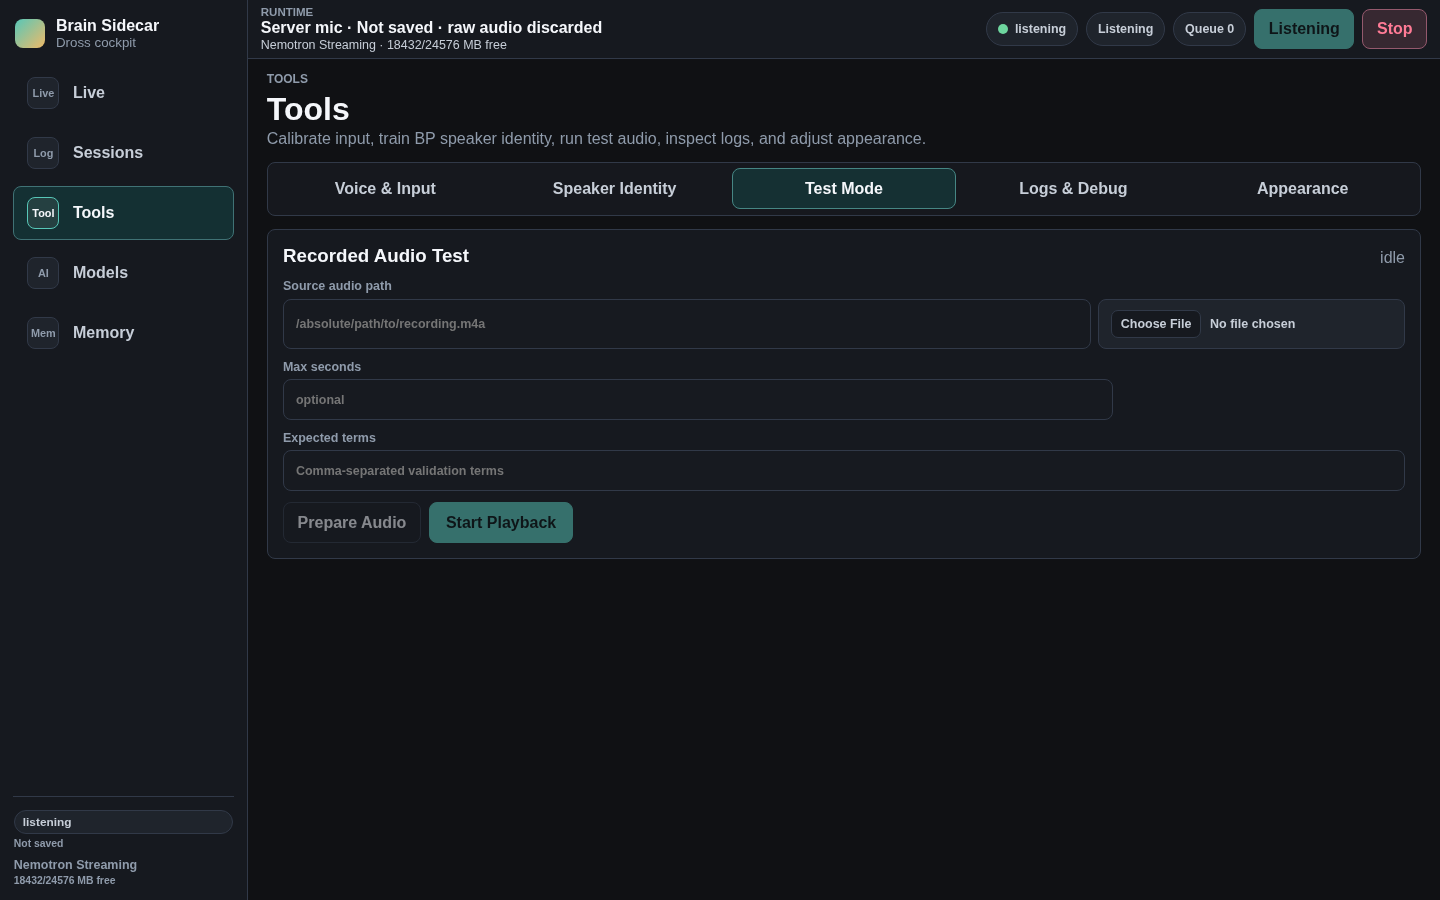
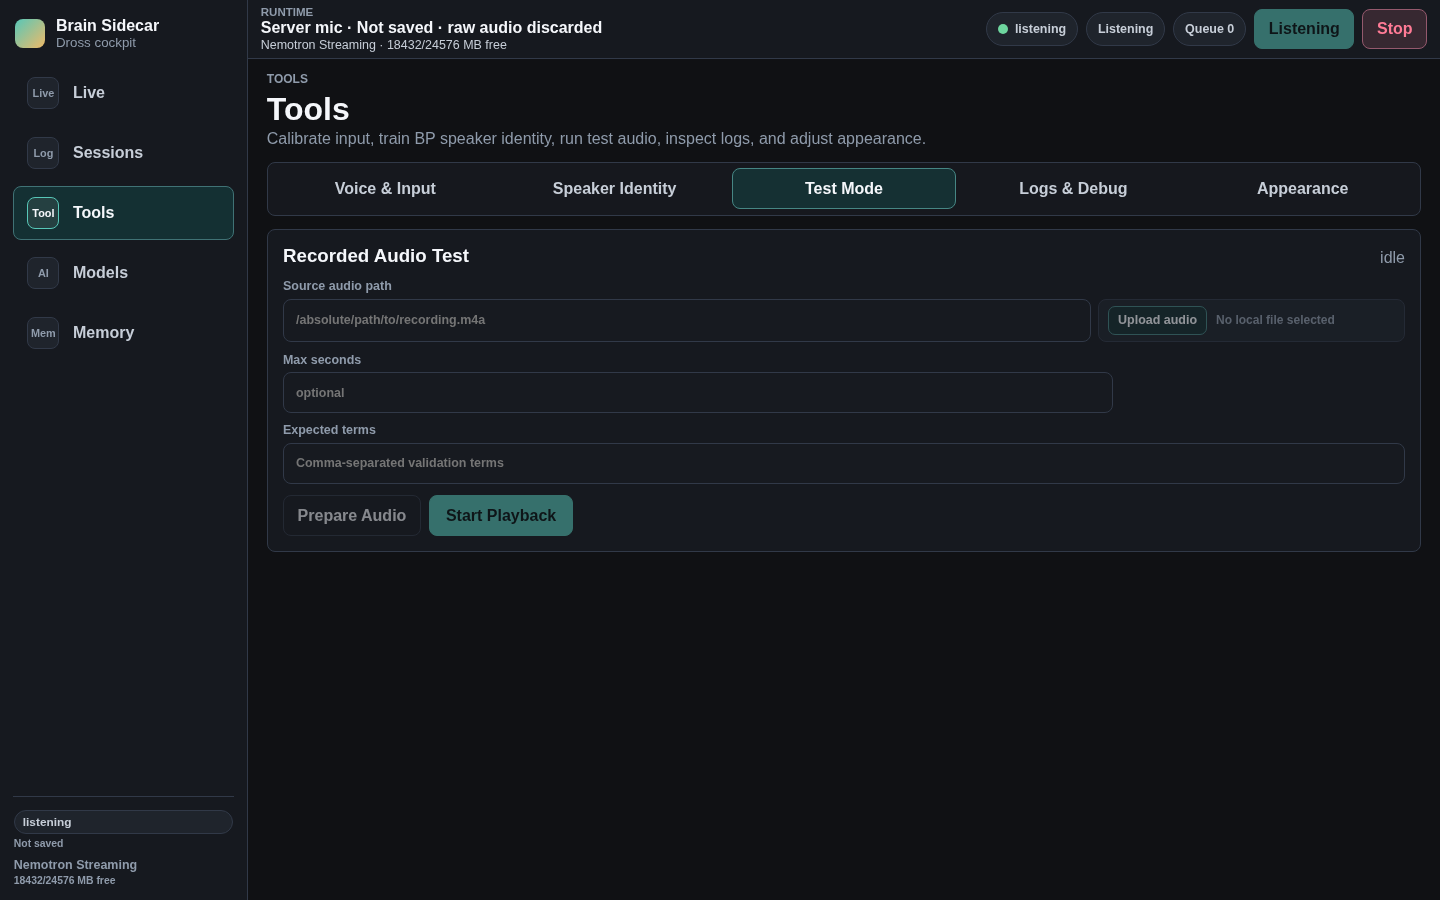
Audit meeting cockpit utility polish

Changed region(s): [[0.1875, 0.3422, 0.4062, 0.6222], [0.7812, 0.3422, 0.9062, 0.3733], [0.1875, 0.56, 0.2812, 0.5911]]

diff --git a/ui/e2e/app.spec.ts b/ui/e2e/app.spec.ts
@@ -14,12 +14,14 @@ test("loads mocked device and GPU state", async ({ page }) => {
   await expect(page.getByLabel("Meeting Focus summary")).toContainText("Focus");
   await expect(page.getByLabel("Meeting Focus goal")).toHaveCount(0);
   await expect(page.getByLabel("Live field empty state")).toContainText("Ready. Start listening or ask Sidecar.");
+  await expect(page.getByRole("banner").getByRole("button", { name: "Stop" })).toHaveCount(0);
   const liveBox = await page.locator("#transcript").boundingBox();
   expect(liveBox).not.toBeNull();
   expect(liveBox!.y).toBeLessThan(360);
   await expect(page.getByRole("search")).toBeVisible();
   const genericToolNoun = new RegExp("Utilit" + "(y|ies)");
   await expect(page.locator("body")).not.toContainText(genericToolNoun);
+  await expect(page.locator("body")).not.toContainText(/Meeting utilities|Transcript Retention|Indexes|Browse index file/);
   const toolsButton = page.getByRole("button", { name: "Tools" });
   await toolsButton.click();
   await expect(page.getByRole("main", { name: "Tools" })).toBeVisible();
@@ -35,6 +37,7 @@ test("loads mocked device and GPU state", async ({ page }) => {
   await expect(debug.getByText("NVIDIA RTX 4090 · 6144/24576 MB")).toBeVisible();
   await expect(debug.getByLabel("VRAM usage 25%")).toBeVisible();
   await expect(debug.getByText("CUDA ready")).toBeVisible();
+  await expect(debug.locator("details.debug-diagnostics")).toHaveJSProperty("open", false);
   await expect(page.getByRole("main", { name: "Tools" })).not.toContainText("Transcript Retention");
   await expect(page.getByRole("main", { name: "Tools" })).not.toContainText("Indexes");
   await page.getByRole("button", { name: "Live" }).click();
@@ -103,6 +106,7 @@ test("shows a saved-session empty state with a Saved-mode CTA", async ({ page })
   const sessionsPage = page.getByRole("main", { name: "Sessions" });
   await expect(sessionsPage).toContainText("No saved sessions yet");
   await expect(sessionsPage).toContainText("Use Saved mode on Live");
+  await expect(sessionsPage.locator(".split-pane")).toHaveCount(0);
   await sessionsPage.getByRole("button", { name: "Start with Saved" }).click();
   await expect(page.getByRole("main", { name: "Live" })).toBeVisible();
   await expect(page.locator('select[aria-label="Session selector"]')).toHaveCount(0);
@@ -118,6 +122,7 @@ test("shows model residency and memory management pages", async ({ page }) => {
   await expect(modelsPage).toBeVisible();
   await expect(modelsPage.getByLabel("Dross readiness summary")).toContainText("Dross runtime ready");
   await expect(modelsPage.getByLabel("Dross readiness summary")).toContainText("Ready");
+  await expect(modelsPage.getByLabel("Dross readiness summary")).toContainText("Same-GPU default looks healthy");
   await expect(modelsPage.getByLabel("Dross readiness summary")).not.toContainText("3/3");
   await expect(modelsPage).toContainText("Nemotron Streaming");
   await expect(modelsPage).toContainText("160 ms");
@@ -136,13 +141,17 @@ test("shows model residency and memory management pages", async ({ page }) => {
     await expect(memoryCategories.getByRole("button", { name: new RegExp(label) })).toBeVisible();
   }
   await expect(memoryCategories.getByRole("button", { name: /Search Results/ })).toHaveCount(0);
+  await expect(memoryPage.getByLabel("Memory search behavior")).toContainText("Type filters the open category");
   await expect(memoryPage.getByLabel("Browse index file")).toHaveCount(0);
   await expect(memoryPage.getByRole("button", { name: "Add Root" })).toHaveCount(0);
   await memoryCategories.getByRole("button", { name: /Documents/ }).click();
   await expect(memoryPage.getByLabel("Memory items")).toContainText("OGMS spec.txt");
+  await expect(memoryPage.getByRole("button", { name: "Add Root" })).toHaveCount(0);
   await memoryPage.getByRole("button", { name: /OGMS spec.txt/ }).click();
   await expect(memoryPage.getByLabel("Memory detail")).toContainText("Monitoring signals are useful when they map to decisions.");
   await expect(memoryPage.getByLabel("Memory detail")).toContainText("/home/bp/Nextcloud2/_library/_shoalstone/past work/OPC/2021 OGM/OGMS spec.txt");
+  await memoryCategories.getByRole("button", { name: /Work Sources/ }).click();
+  await expect(memoryPage.locator("details.metadata-details")).toHaveJSProperty("open", false);
 
   const searchRequest = page.waitForRequest((request) => (
     request.method() === "POST" && request.url().endsWith("/api/work-memory/search")
@@ -656,8 +665,11 @@ test("shows speaker identity controls instead of legacy ASR voice training", asy
   await expect(speaker.getByLabel("Speaker training steps")).toContainText("1 Start");
   await expect(page.getByRole("region", { name: "Voice profile" })).toHaveCount(0);
   await expect(page.getByText("ASR guidance preview")).toHaveCount(0);
+  await expect(speaker.locator("details.speaker-maintenance")).toHaveJSProperty("open", false);
+  await expect(speaker.getByRole("button", { name: "Delete Learned Embeddings" })).toHaveCount(0);
   await speaker.getByText("Advanced speaker controls").click();
   await expect(speaker).toContainText("embeddings");
+  await expect(speaker.getByRole("button", { name: "Delete Learned Embeddings" })).toBeVisible();
   await speaker.getByText("Review learned speaker profile").click();
   await expect(speaker.getByRole("button", { name: "Merge speakers" })).toBeVisible();
   await expect(speaker.getByRole("button", { name: "Split speaker" })).toBeVisible();
@@ -987,6 +999,9 @@ test("prepares recorded audio and starts playback from the GUI", async ({ page }
 
   const testPanel = await openToolSection(page, "Test Mode", "Recorded audio test");
   await expect(testPanel).toBeVisible();
+  await expect(testPanel.locator(".file-action")).toContainText("Upload audio");
+  await expect(testPanel.locator("input.file-picker")).toHaveCount(0);
+  await expect(testPanel).not.toContainText("No file chosen");
 
   await testPanel.getByLabel("Browse source audio").setInputFiles({
     name: "current-role-recording.m4a",
@@ -1180,6 +1195,10 @@ test("keeps cockpit pages compact at desktop and laptop widths", async ({ page }
     await page.getByRole("button", { name: "Tools" }).click();
     await expect(page.getByRole("main", { name: "Tools" })).toBeVisible();
     await expect(page.getByLabel("Voice & Input")).toBeVisible();
+    await expect.poll(() => page.evaluate(() => document.documentElement.scrollWidth <= window.innerWidth)).toBe(true);
+
+    await page.getByRole("button", { name: "Models" }).click();
+    await expect(page.getByRole("main", { name: "Models" })).toBeVisible();
     await expect.poll(() => page.evaluate(() => document.documentElement.scrollWidth <= window.innerWidth)).toBe(true);
 
     await page.getByRole("button", { name: "Memory" }).click();

diff --git a/ui/src/App.tsx b/ui/src/App.tsx
@@ -2584,11 +2584,12 @@ export function App() {
                       onChange={(event) => setFixturePath(event.target.value)}
                       placeholder="/absolute/path/to/mono-16khz.wav"
                     />
-                    <input
-                      aria-label="Browse fixture WAV"
-                      className="file-picker"
-                      type="file"
+                    <FilePickAction
+                      label="Browse fixture WAV"
+                      actionLabel="Upload WAV"
                       accept=".wav,audio/wav,audio/x-wav"
+                      path={fixturePath}
+                      busy={fileUploadBusy === "fixture"}
                       disabled={Boolean(fileUploadBusy)}
                       onChange={(event) => handleInputFilePick(event, "fixture", setFixturePath)}
                     />
@@ -2615,11 +2616,12 @@ export function App() {
                       onChange={(event) => setTestSourcePath(event.target.value)}
                       placeholder="/absolute/path/to/recording.m4a"
                     />
-                    <input
-                      aria-label="Browse source audio"
-                      className="file-picker"
-                      type="file"
+                    <FilePickAction
+                      label="Browse source audio"
+                      actionLabel="Upload audio"
                       accept="audio/*,.wav,.mp3,.m4a,.mp4,.aac,.flac,.ogg,.webm"
+                      path={testSourcePath}
+                      busy={fileUploadBusy === "test-audio"}
                       disabled={Boolean(fileUploadBusy) || testBusy === "preparing" || captureActive || captureStarting}
                       onChange={(event) => handleInputFilePick(event, "test-audio", setTestSourcePath)}
                     />
@@ -3423,6 +3425,11 @@ function ModelsPage({
         : "Dross setup needed";
   const embeddingKeepalive = gpu.ollama_embed_keep_alive ?? "0";
   const embeddingKeepaliveLabel = embeddingKeepalive === "0" ? "not resident (0)" : embeddingKeepalive;
+  const residentChatModels = gpu.ollama_gpu_models ?? [];
+  const chatModel = gpu.ollama_chat_model ?? "phi3:mini";
+  const sameGpuInterpretation = runtimeReady
+    ? `Same-GPU default looks healthy: ${asrBackendLabel} handles hearing locally, ${chatModel} is ${residentChatModels.includes(chatModel) ? "resident" : "reachable"}, and embeddings ${embeddingKeepalive === "0" ? "load on demand" : "stay resident"}.`
+    : "Health checks show which part of Dross needs attention before a meeting.";
   return (
     <main className="page models-page" aria-label="Models">
       <header className="page-header">
@@ -3443,6 +3450,7 @@ function ModelsPage({
             <span><strong>Memory</strong>{memoryReady ? `${gpu.ollama_embed_model ?? "embeddinggemma"} · ${ollamaEmbedHostLabel}` : "embeddings offline"}</span>
             <span><strong>VRAM</strong>{gpuFreeLabel}</span>
           </div>
+          <p className="readiness-interpretation">{sameGpuInterpretation}</p>
         </div>
         <span className={`readiness-pill ${readinessTone}`}>{readinessPill}</span>
       </section>
@@ -3520,6 +3528,39 @@ function RuntimeRow({ label, value }: { label: string; value: string }) {
       {" "}
       <strong>{value}</strong>
     </span>
+  );
+}
+
+function FilePickAction({
+  label,
+  actionLabel,
+  accept,
+  path,
+  busy,
+  disabled,
+  onChange,
+}: {
+  label: string;
+  actionLabel: string;
+  accept: string;
+  path: string;
+  busy: boolean;
+  disabled: boolean;
+  onChange: (event: ChangeEvent<HTMLInputElement>) => void;
+}) {
+  return (
+    <label className={`file-action ${disabled ? "disabled" : ""} ${busy ? "busy" : ""}`}>
+      <input
+        aria-label={label}
+        className="file-picker-native"
+        type="file"
+        accept={accept}
+        disabled={disabled}
+        onChange={onChange}
+      />
+      <span>{busy ? "Uploading..." : actionLabel}</span>
+      <small title={path || "No local file selected"}>{path ? PathLabel(path) : "No local file selected"}</small>
+    </label>
   );
 }
 
@@ -3718,6 +3759,9 @@ function MemoryPage({
                 placeholder="project, document, phrase"
               />
             </label>
+            <p className="memory-search-note" aria-label="Memory search behavior">
+              Type filters the open category. Search runs source-grounded work-memory lookup.
+            </p>
             <div className="memory-search-actions">
               <button className="secondary" type="submit" disabled={!memoryQuery.trim() || memoryBusy === "searching"}>
                 {memoryBusy === "searching" ? "Searching..." : "Search"}

diff --git a/ui/src/styles.css b/ui/src/styles.css
@@ -623,6 +623,13 @@ blockquote {
   text-transform: uppercase;
 }
 
+.readiness-interpretation {
+  color: var(--text-muted);
+  font-size: 0.86rem;
+  line-height: 1.4;
+  margin: 0.62rem 0 0;
+}
+
 .readiness-pill {
   background: var(--surface-2);
   border: 1px solid var(--border);
@@ -735,6 +742,13 @@ blockquote {
 .memory-search-form {
   display: grid;
   gap: 0.45rem;
+}
+
+.memory-search-note {
+  color: var(--text-subtle);
+  font-size: 0.76rem;
+  line-height: 1.35;
+  margin: -0.08rem 0 0;
 }
 
 .memory-search-actions {
@@ -2670,6 +2684,63 @@ time {
   display: grid;
   gap: 0.45rem;
   grid-template-columns: minmax(0, 1fr) minmax(10.5rem, 0.38fr);
+}
+
+.file-action {
+  align-items: center;
+  background: var(--surface-2);
+  border: 1px solid var(--border);
+  border-radius: 8px;
+  cursor: pointer;
+  display: grid;
+  gap: 0.16rem 0.55rem;
+  grid-template-columns: auto minmax(0, 1fr);
+  min-height: 2.55rem;
+  min-width: 0;
+  overflow: hidden;
+  padding: 0.4rem 0.55rem;
+  position: relative;
+}
+
+.file-action:hover {
+  border-color: var(--border-strong);
+}
+
+.file-action.disabled {
+  cursor: not-allowed;
+  opacity: 0.55;
+}
+
+.file-action span {
+  background: color-mix(in srgb, var(--accent-soft) 62%, var(--surface));
+  border: 1px solid color-mix(in srgb, var(--accent) 52%, var(--border));
+  border-radius: 7px;
+  color: var(--text);
+  font-size: 0.78rem;
+  font-weight: 900;
+  line-height: 1;
+  padding: 0.45rem 0.58rem;
+  white-space: nowrap;
+}
+
+.file-action small {
+  color: var(--text-subtle);
+  font-size: 0.75rem;
+  font-weight: 800;
+  min-width: 0;
+  overflow: hidden;
+  text-overflow: ellipsis;
+  white-space: nowrap;
+}
+
+.file-picker-native {
+  cursor: inherit;
+  height: 100%;
+  inset: 0;
+  opacity: 0;
+  padding: 0;
+  position: absolute;
+  width: 100%;
 }
 
 .file-picker {
